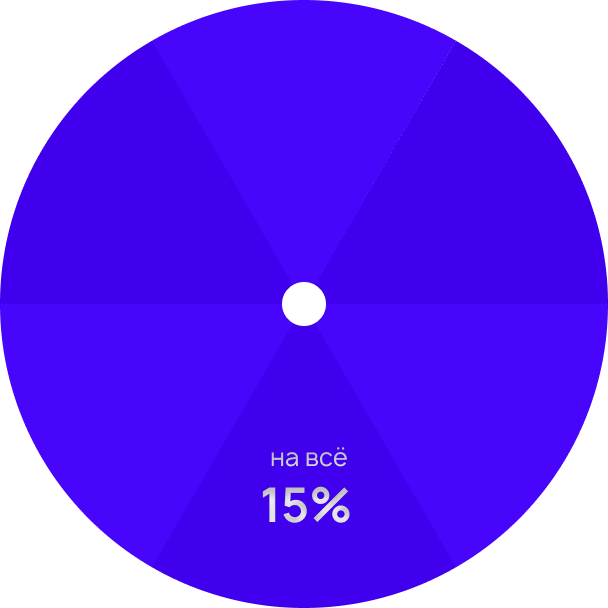
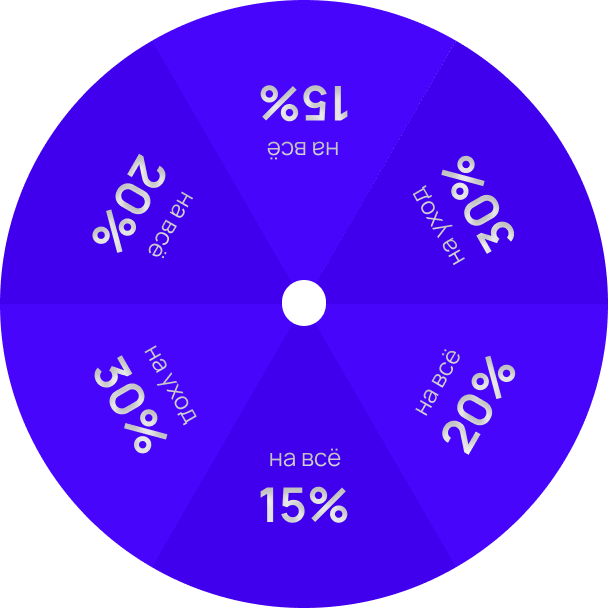
доработка

diff --git a/js/main.js b/js/main.js
@@ -18,6 +18,13 @@ const screenHeight = document.body.clientHeight;
 var wheelSpeed = 1;
 var wheelBrake = 0;
 var currentSector = 0;
+var canRotate = true;
+// var rotated = Crafty.storage('rotated');
+// if (!rotated) {
+// 	canRotate = true; 
+// } else {
+// 	canRotate = false;
+// }
 
 
 Crafty.sprite("./images/wheel.png", {wheel:[0,0,608,608]});
@@ -37,6 +44,7 @@ function twist() {
 
 function getBonus() {
 	Crafty.e("Delay").delay(function() {
+		// Crafty.storage('rotated', 1);
 		Crafty.enterScene("Bonus");
 	}, 1000, 0);
 }
@@ -139,12 +147,17 @@ var btnStart = Crafty.e("2D, DOM, btnStart, Mouse")
 btnStart.x = sceenWidth/2 - btnStart.w/2;
 btnStart.y = wheel.y + wheel.h + 52;
 btnStart.bind("Click", function() {
-	twist();
-	btnStart.destroy();
-	var load = Crafty.e("2D, DOM, load")
-				.attr({w: 100, h: 100});
-	load.x = sceenWidth/2 - load.w/2;
-	load.y = wheel.y + wheel.h + 52;
+	if (canRotate) {
+			twist();
+			btnStart.destroy();
+			var load = Crafty.e("2D, DOM, load")
+						.attr({w: 100, h: 100});
+			load.x = sceenWidth/2 - load.w/2;
+			load.y = wheel.y + wheel.h + 52;	
+	} else {
+		Crafty.enterScene("Abort");
+	}
+
 });
 
 var logo = Crafty.e("2D, DOM, logo")
@@ -162,10 +175,10 @@ Crafty.defineScene("Bonus", function() {
 	var bonusAmount = 0;
 	if (currentSector == 0) bonusAmount = 15;
 	if (currentSector == 1) bonusAmount = 20;
-	if (currentSector == 2) bonusAmount = 25;
-	if (currentSector == 3) bonusAmount = 30;
-	if (currentSector == 4) bonusAmount = 35;
-	if (currentSector == 5) bonusAmount = 40;
+	if (currentSector == 2) bonusAmount = 30;
+	if (currentSector == 3) bonusAmount = 15;
+	if (currentSector == 4) bonusAmount = 20;
+	if (currentSector == 5) bonusAmount = 30;
 
 	Crafty.sprite("./images/get_tg.png", {getTg:[0,0,576,160]});
 	Crafty.sprite("./images/get_vk.png", {getVk:[0,0,572,160]});
@@ -174,7 +187,7 @@ Crafty.defineScene("Bonus", function() {
 	Crafty.init(screenWidth, screenHeight, document.getElementById('wheel'));
 
 	var subtitle = Crafty.e("2D, DOM, Text")
-		.attr({w: 280, y: 152})
+		.attr({w: 280, y: 80})
 		.text('Ваш бонус:')
 		.textColor('white')
 		.textFont({
@@ -214,14 +227,70 @@ Crafty.defineScene("Bonus", function() {
 	btnGetTg.x = screenWidth/2 - btnGetTg.w/2;
 	btnGetTg.y = subtitle2.y + 120;
 	btnGetTg.bind("Click", function() {
-		window.open("https://ya.ru", "_blank");
+		window.open("https://salebot.site/fortune_coupon_ur_1?nominal=" + bonusAmount, "_blank");
 	});
 
 	var btnGetVk = Crafty.e("2D, DOM, getVk, Mouse").attr({w: 286, h: 80}).css({'cursor': 'pointer'});
 	btnGetVk.x = screenWidth/2 - btnGetVk.w/2;
 	btnGetVk.y = btnGetTg.y + 103;
 	btnGetVk.bind("Click", function() {
-		window.open("https://ya.ru", "_blank");
+		window.open("https://vk.com/app7062840#fortune_coupon_ur&force=1&nominal=" + bonusAmount, "_blank");
+	});
+
+	var logo = Crafty.e("2D, DOM, logo")
+					.attr({w: 121, h: 28});
+	logo.x = screenWidth/2 - logo.w/2;
+	logo.y = screenHeight - 63;
+
+});
+Crafty.defineScene("Abort", function() {
+
+	const screenWidth = document.body.clientWidth;
+	const screenHeight = document.body.clientHeight;
+
+	Crafty.sprite("./images/tg.png", {getTg:[0,0,576,160]});
+	Crafty.sprite("./images/vk.png", {getVk:[0,0,572,160]});
+	Crafty.sprite("./images/logo.png", {logo:[0,0,242,56]});
+
+	Crafty.init(screenWidth, screenHeight, document.getElementById('wheel'));
+
+	var title = Crafty.e("2D, DOM, Text")
+		.attr({w: 280, y: 80})
+		.text('Вы уже прокручивали колесо!')
+		.textColor('white')
+		.textFont({
+			family: 'Manrope-Regular',
+			size: '28px',
+			lineHeight: '38px',
+			weight: '400'
+		})
+		.dynamicTextGeneration(true);
+	title.x = screenWidth/2 - title.w/2;
+
+	var subtitle2 = Crafty.e("2D, DOM, Text")
+		.attr({w: 280, y: title.y + 150})
+		.text('Следите за другими розыгрышами в удобном мессенджере')
+		.textColor('white')
+		.textFont({
+			family: 'Manrope-Regular',
+			size: '20px',
+			lineHeight: '27px',
+			weight: '400'
+		});
+	subtitle2.x = screenWidth/2 - subtitle2.w/2;
+
+	var btnTg = Crafty.e("2D, DOM, getTg, Mouse").attr({w: 288, h: 80}).css({'cursor': 'pointer'});
+	btnTg.x = screenWidth/2 - btnTg.w/2;
+	btnTg.y = subtitle2.y + 120;
+	btnTg.bind("Click", function() {
+		window.open("https://t.me/s/ulybka_radugi", "_blank");
+	});
+
+	var btnVk = Crafty.e("2D, DOM, getVk, Mouse").attr({w: 286, h: 80}).css({'cursor': 'pointer'});
+	btnVk.x = screenWidth/2 - btnVk.w/2;
+	btnVk.y = btnTg.y + 103;
+	btnVk.bind("Click", function() {
+		window.open("https://vk.com/ulybka_radugi", "_blank");
 	});
 
 	var logo = Crafty.e("2D, DOM, logo")
